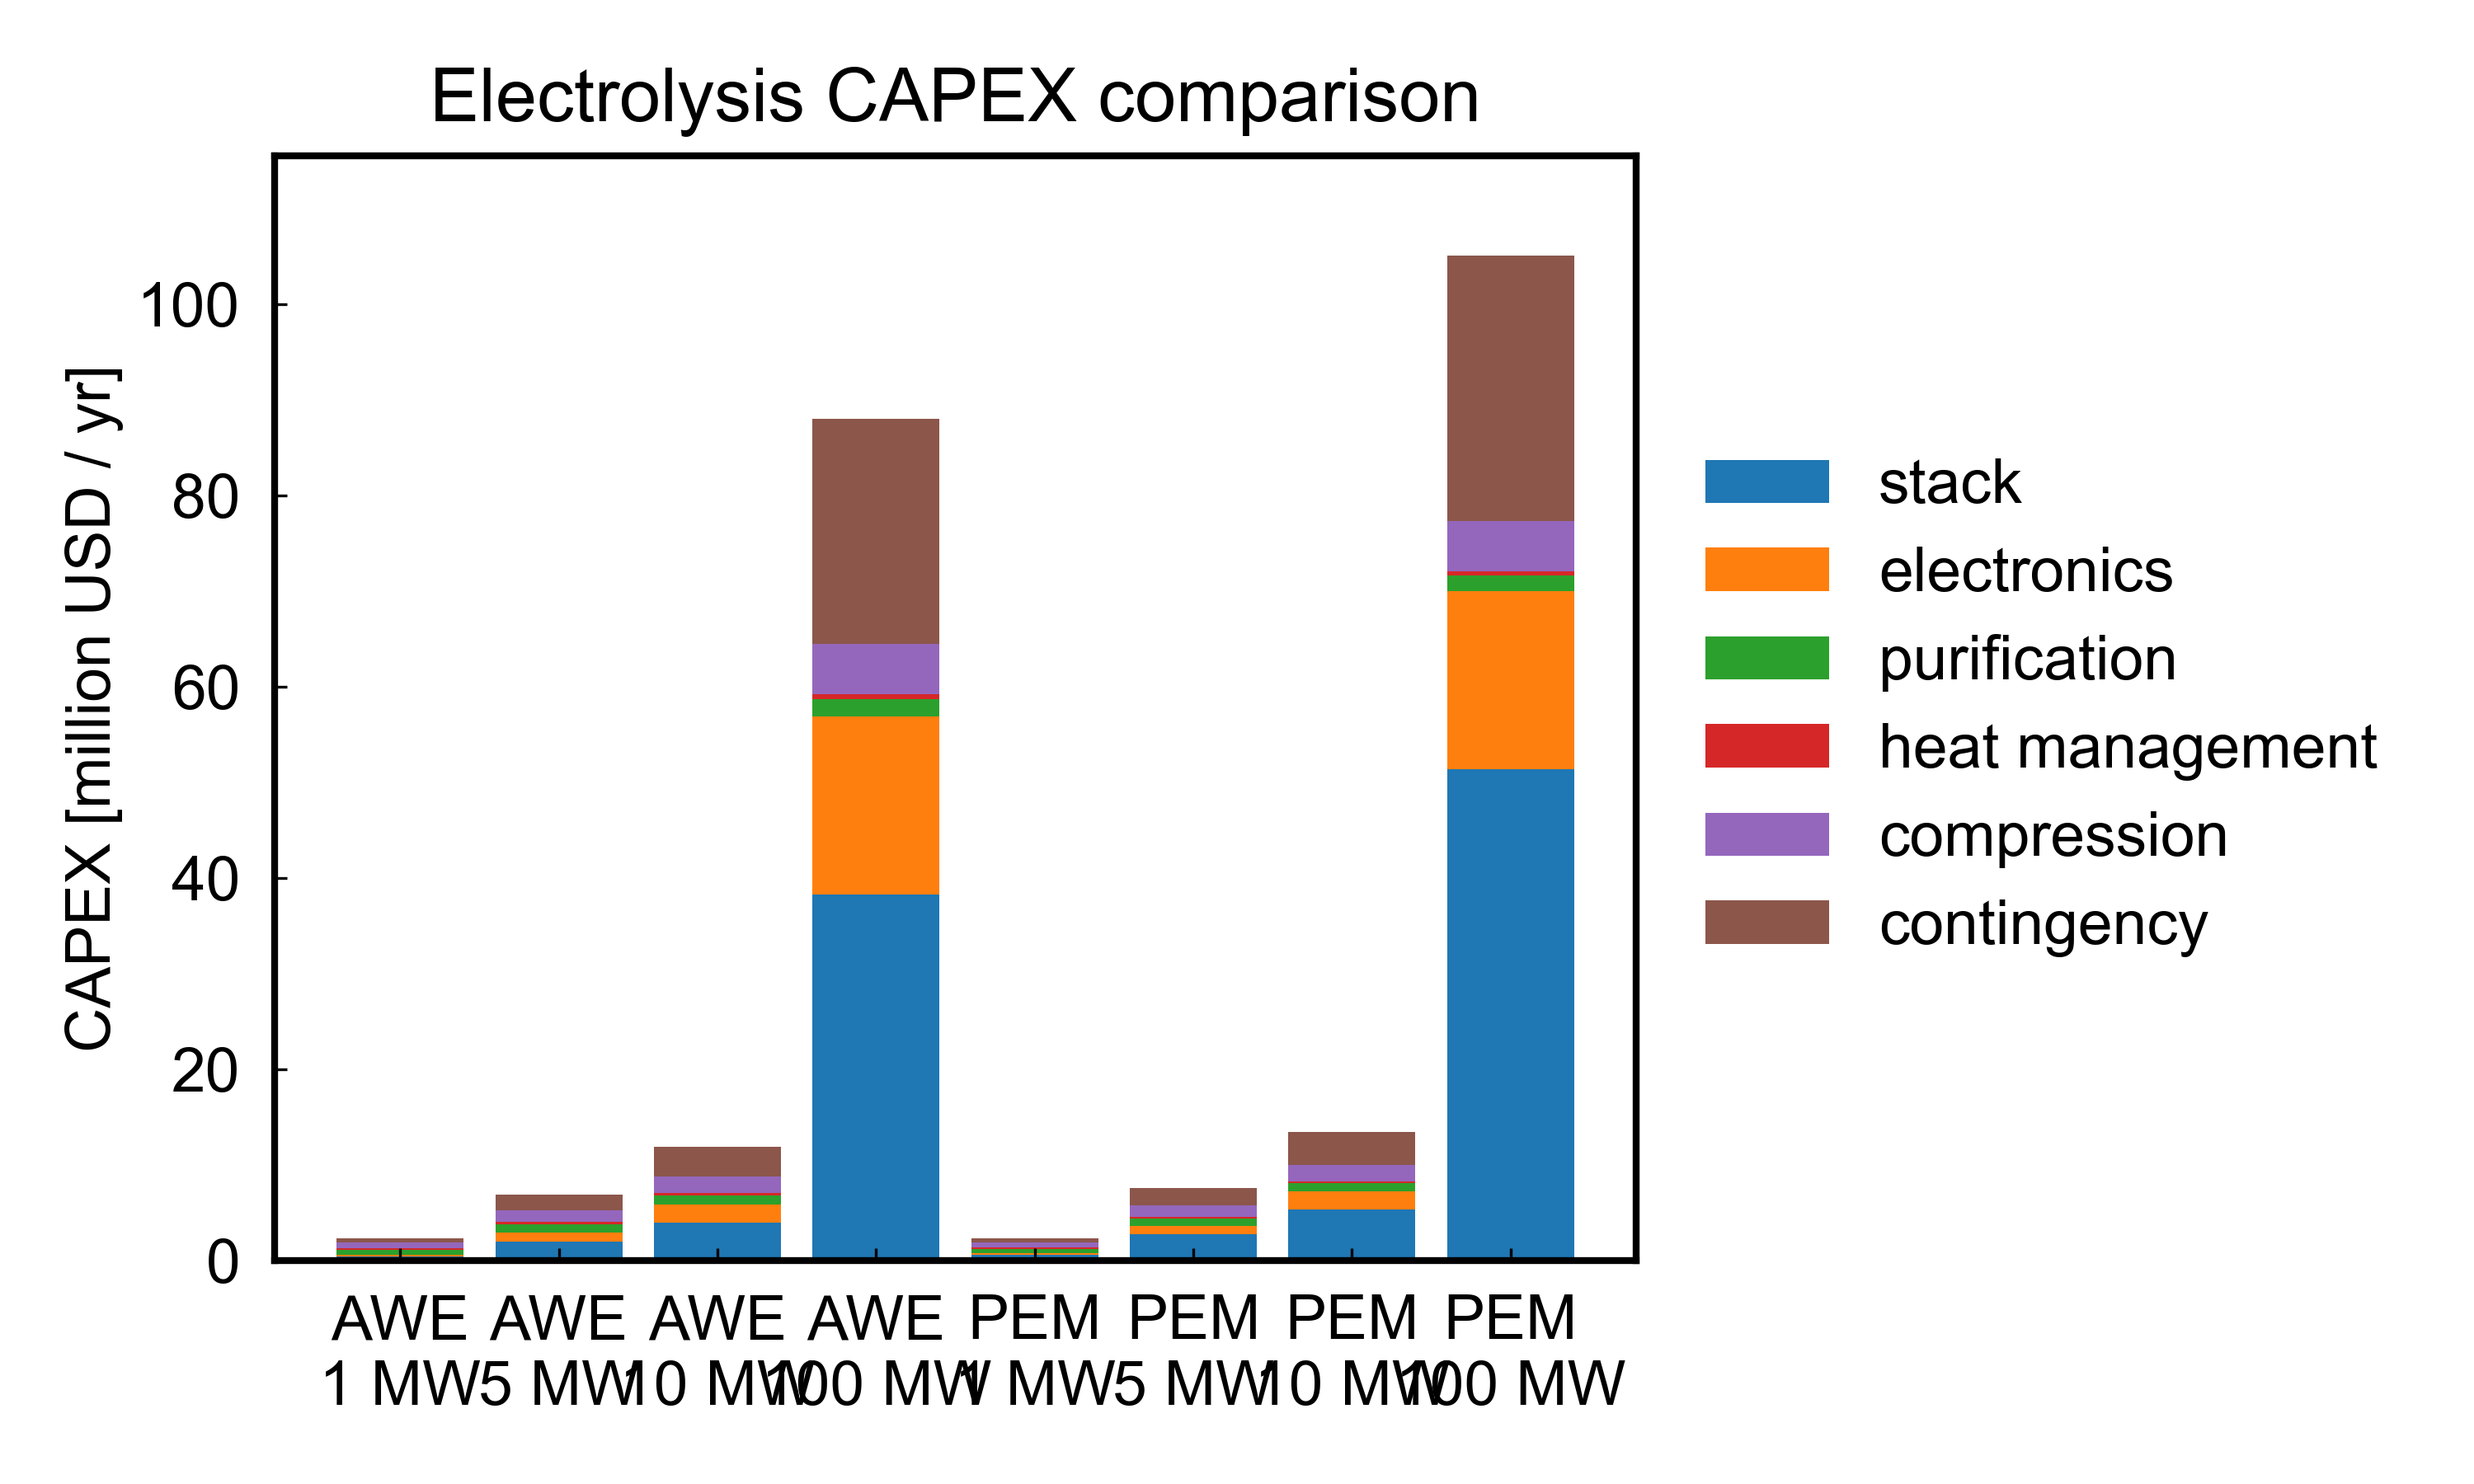
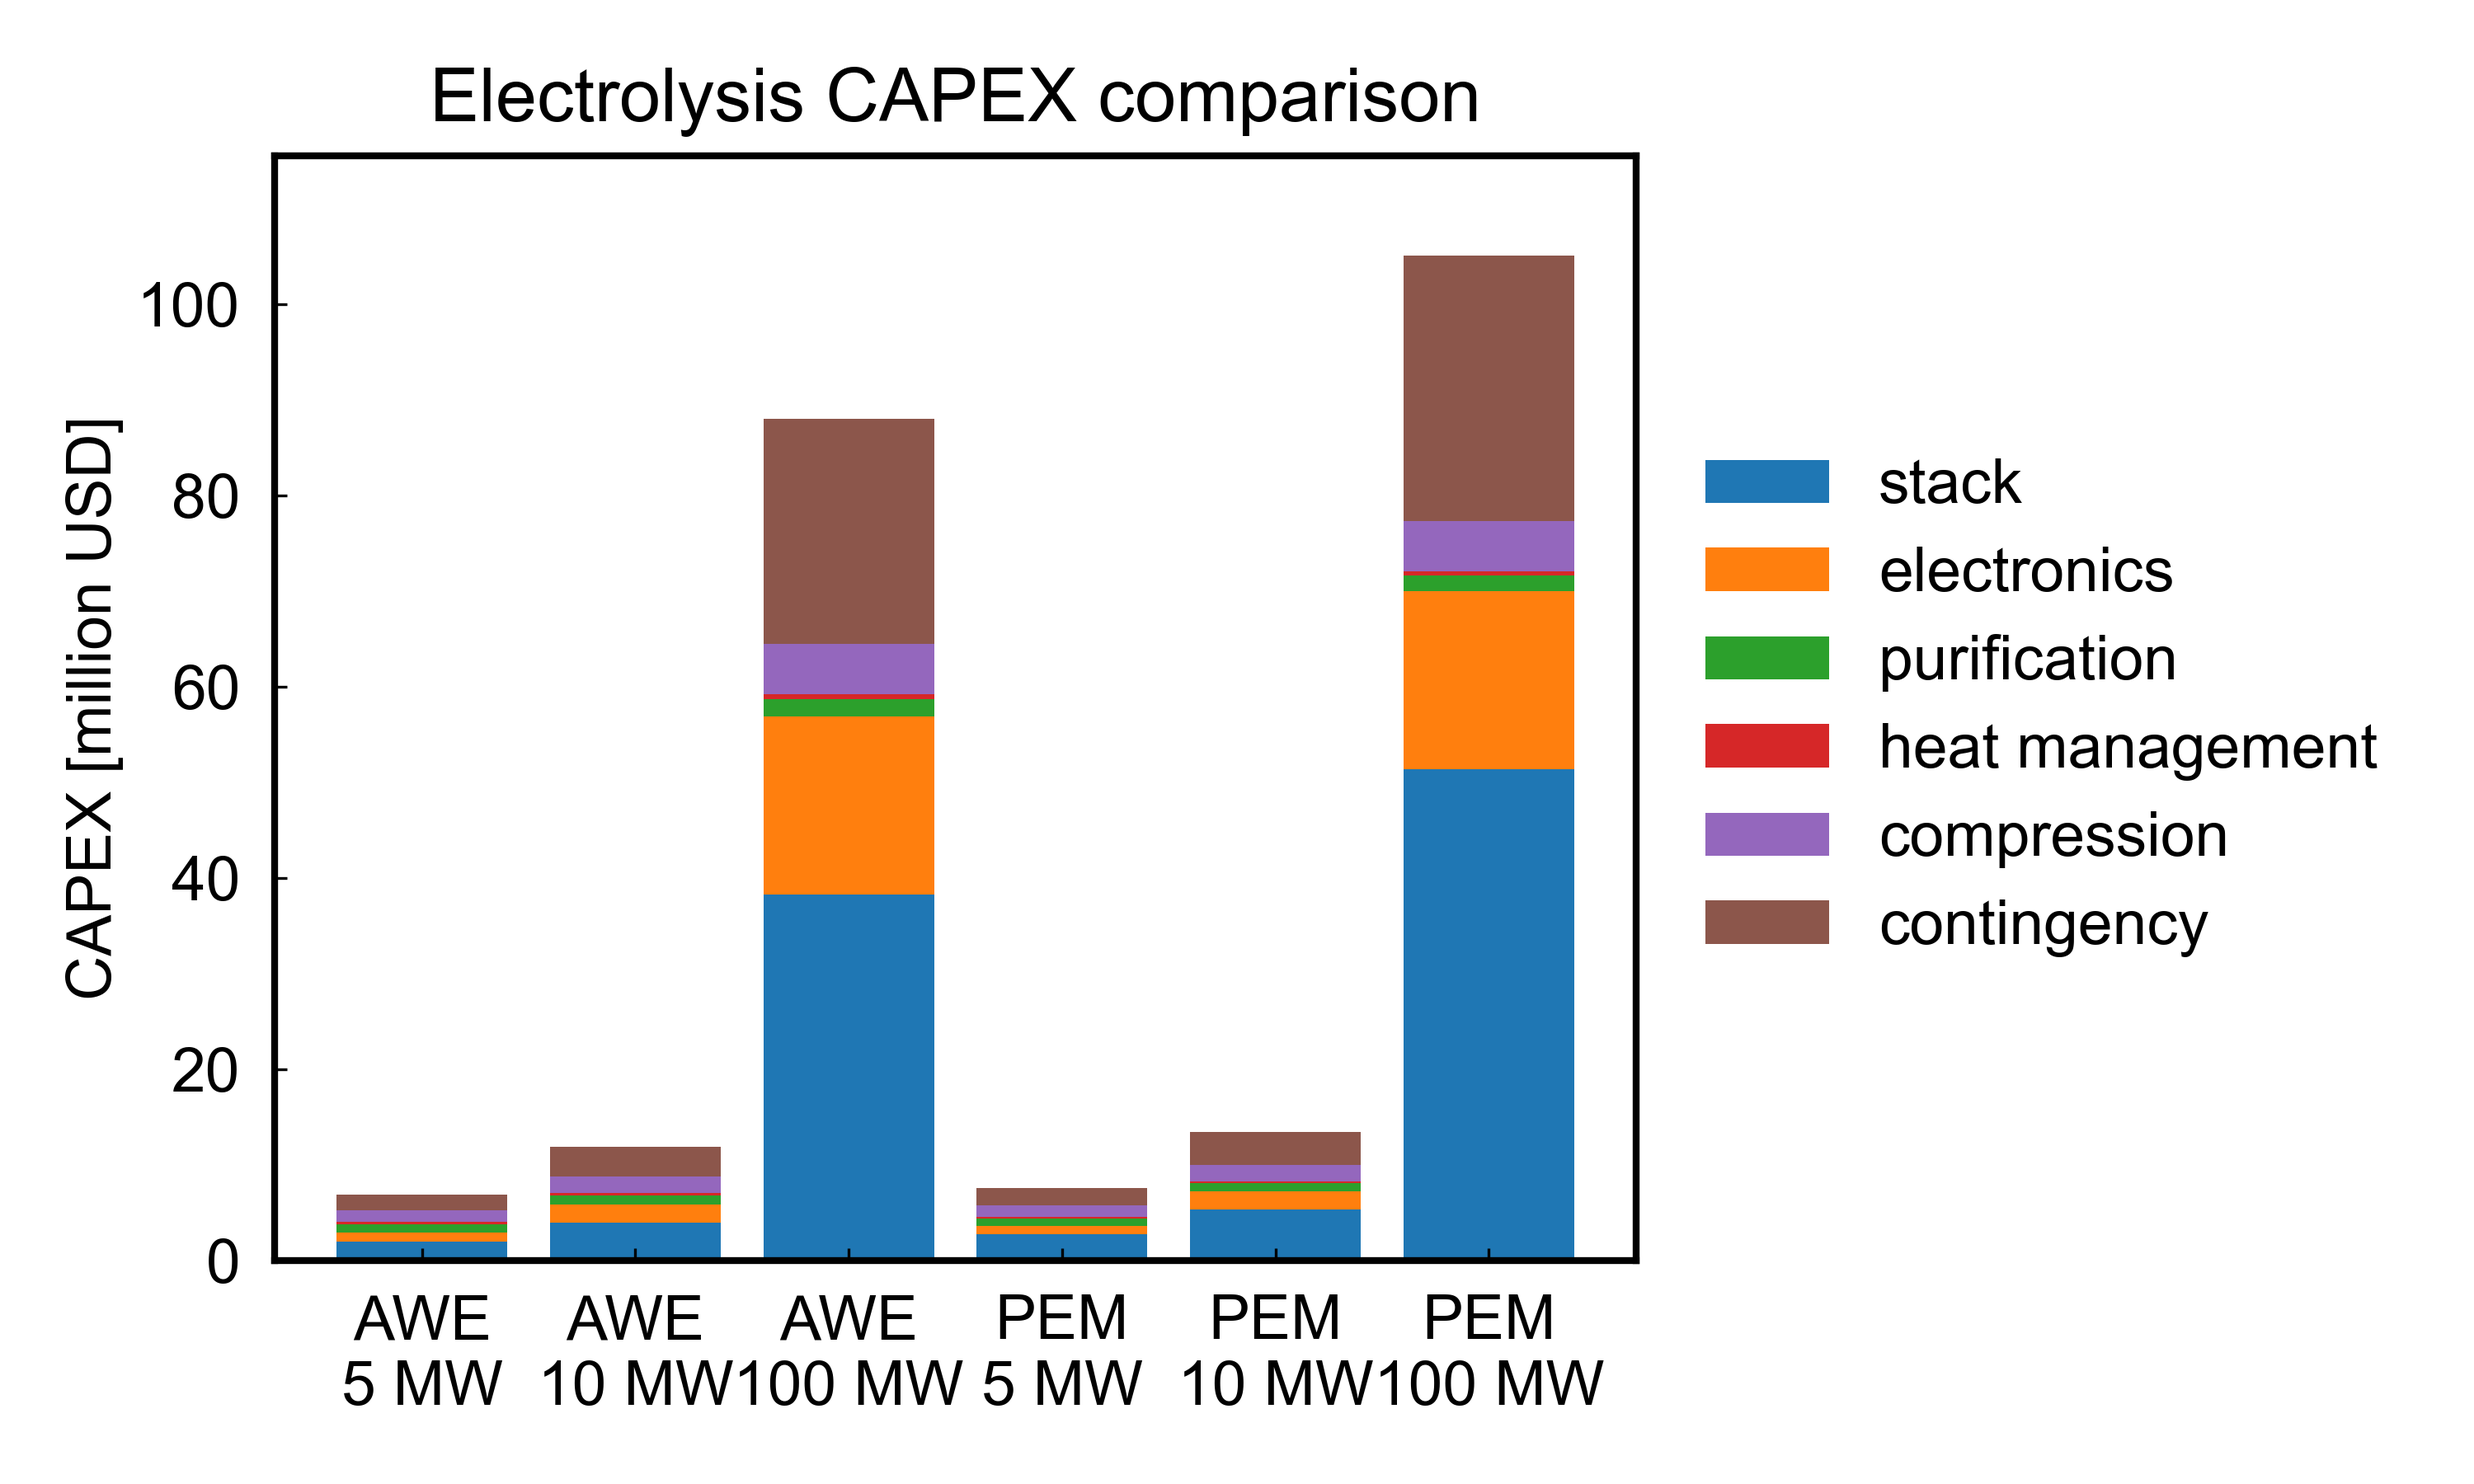
electrolysis calculation modified

Changed region(s): [[0.124, 0.1556, 0.651, 0.9644], [0.031, 0.2489, 0.062, 0.7156]]

diff --git a/main.py b/main.py
@@ -162,23 +162,50 @@ def biomass_gasifier():
     plot_line(pr, [capex], x_label="Hydrogen production rate [kt-H2 / yr]", y_label="CAPEX [millin USD]", title="Biomass gasification cost")
 
 def electrolysis_check():
-    pr = np.array([1, 5, 10, 100])
+    # pr = np.array([1, 5, 10, 100])
+    pr = np.array([5, 10, 100])
     awe_cap = [awe_capex(p) for p in pr]
     awe_op = [awe_opex(p) for p in pr]
     awe_annual_cost = awe_cost(pr)
+    lcoh_awe = LCOH_awe(pr)
+    cap_kw_awe = CAPEX_per_kW_awe(pr)
+    op_kw_awe = [sum(awe_opex(p)) * 1e6 / (p * 1e3) for p in pr]
 
     pem_cap = [pemwe_capex(p) for p in pr]
     pem_op = [pemwe_opex(p) for p in pr]
     pemwe_annual_cost = pemwe_cost(pr)
-    y_list = awe_cap + pem_cap
-    # y_list = awe_op + pem_op
-    # y_list = list(awe_annual_cost) + list(pemwe_annual_cost)
-    x_list = ["AWE\n1 MW", "AWE\n5 MW", "AWE\n10 MW", "AWE\n100 MW", "PEM\n1 MW", "PEM\n5 MW", "PEM\n10 MW", "PEM\n100 MW"]
-    y_label = "CAPEX [million USD / yr]"
-    title = "Electrolysis CAPEX comparison"
+    lcoh_pem = LCOH_pemwe(pr)
+    cap_kw_pem = CAPEX_per_kW_pemwe(pr)
+    op_kw_pem = [sum(pemwe_opex(p)) * 1e6 / (p * 1e3) for p in pr]
 
+    # x_list = ["AWE\n1 MW", "AWE\n5 MW", "AWE\n10 MW", "AWE\n100 MW", "PEM\n1 MW", "PEM\n5 MW", "PEM\n10 MW", "PEM\n100 MW"]
+    x_list = ["AWE\n5 MW", "AWE\n10 MW", "AWE\n100 MW", "PEM\n5 MW", "PEM\n10 MW", "PEM\n100 MW"]
+
+    y_list = awe_cap + pem_cap
+    y_label = "CAPEX [million USD]"
+    title = "Electrolysis CAPEX comparison"
     layer_label_list_capex = ["stack", "electronics", "purification", "heat management", "compression", "contingency"]
-    layer_label_list_opex = ["electricity", "steam", "cooling_water", "refgerant", "pump", "compression", "raw material water"]
     plot_stack_bar(y_list, layer_label_list=layer_label_list_capex, x_list=x_list, y_label=y_label, title=title)
+
+    y_list = list(cap_kw_awe) + list(cap_kw_pem)
+    y_label = "CAPEX [USD / kW]"
+    title = "Electrolysis CAPEX (per kW) comparison"
+    plot_bar(y_list, x_list=x_list, y_label=y_label, title=title)
+
+    y_list = awe_op + pem_op
+    y_label = "OPEX [million USD / yr]"
+    title = "Electrolysis OPEX comparison"
+    layer_label_list_opex = ["electricity", "steam", "cooling_water", "refgerant", "pump", "compression", "raw material water"]
+    plot_stack_bar(y_list, layer_label_list=layer_label_list_opex, x_list=x_list, y_label=y_label, title=title)
+
+    y_list = list(awe_annual_cost) + list(pemwe_annual_cost)
+    y_label = "Annual cost [million USD / yr]"
+    title = "Electrolysis annual cost comparison"
+    plot_bar(y_list, x_list=x_list, y_label=y_label, title=title)
+
+    y_list = list(lcoh_awe) + list(lcoh_pem)
+    y_label = "LCOH [USD / kg-H2]"
+    title = "Electrolysis LCOH comparison"
+    plot_bar(y_list, x_list=x_list, y_label=y_label, title=title)
 
 electrolysis_check()

diff --git a/myconfig/hydrogen_calculation.py b/myconfig/hydrogen_calculation.py
@@ -43,7 +43,7 @@ def pemwe_adv_capex(production_scale): # production_scale: [MW]
     return capex_list # [million USD] # [stack, electronics, heat management, compression, contingency]
 
 def electrolizer_opex(production_scale, opex_data, spec_data): # [MW]
-    pr = production_scale / spec_data.Energy_consumption.Value * plant_data.Plant_operation_time.Value # [kg-H2 / yr]
+    pr = production_scale * 1e3 / spec_data.Energy_consumption.Value * plant_data.Plant_operation_time.Value # [kg-H2 / yr]
     electricity_cost = pr * spec_data.Energy_consumption.Value * commodity_data.Electricity.Value * 1e-6 # [milion USD / yr]
     steam_cost = pr * opex_data.Steam.Value * commodity_data.Steam.Value * 1e-6 # [million USD / yr]
     cooling_cost = pr * opex_data.Cooling_water.Value * commodity_data.Cooling_water.Value * 1e-6 # [million USD / yr]
@@ -91,6 +91,36 @@ def pemwe_cost(production_scale, discount_rate=plant_data.Discount_rate.Value): 
     spec_data = pemwe_spec_data
     annual_cost = electrolysis_cost(capex_list, opex_list, spec_data, discount_rate)
     return annual_cost # [million USD / yr]
+
+# LCOH
+
+def LCOH_awe(production_scale): # production scale: [MW], annual cost : [million USD / yr]
+    production_rate = production_scale * 1e3 / awe_spec_data.Energy_consumption.Value * plant_data.Plant_operation_time.Value # [kg-H2 / yr]
+    cost = awe_cost(production_scale) * 1e6 # [USD / yr]
+    lcoh = cost / production_rate # [USD / kg-H2]
+    return lcoh
+
+def LCOH_pemwe(production_scale): # production scale: [MW], annual cost : [million USD / yr]
+    production_rate = production_scale * 1e3 / pemwe_spec_data.Energy_consumption.Value * plant_data.Plant_operation_time.Value # [kg-H2 / yr]
+    cost = pemwe_cost(production_scale) * 1e6 # [USD / yr]
+    lcoh = cost / production_rate # [USD / kg-H2]
+    return lcoh
+
+def CAPEX_per_kW_awe(production_scale): # [MW]
+    capex = sum(awe_capex(production_scale)) * 1e6 # [USD]
+    pr = production_scale * 1e3 # [kW]
+    return capex / pr # [USD / kW]
+
+def CAPEX_per_kW_pemwe(production_scale): # [MW]
+    capex = sum(pemwe_capex(production_scale)) * 1e6 # [USD]
+    pr = production_scale * 1e3 # [kW]
+    return capex / pr # [USD / kW]
+
+def OPEX_per_kW_pemwe(production_scale): # [MW]
+    capex = sum(pemwe_opex(production_scale)) * 1e6 # [USD]
+    pr = production_scale * 1e3 # [kW]
+    return capex / pr # [USD / kW]
+
 
 # infra cost
 

diff --git a/myconfig/__init__.py b/myconfig/__init__.py
@@ -16,8 +16,8 @@ from .process_steel import steel_capex_bau, steel_capex_dri_eaf, steel_capex_ccs
 process_list = ["steel_capex_bau", "steel_capex_dri_eaf", "steel_capex_ccs", "steel_opex_ccs", "steel_annual_ccs"]
 
 # hydrogen
-from .hydrogen_calculation import awe_capex, water_pump_capex, awe_opex, awe_cost, pemwe_cost, pemwe_capex, pemwe_opex
-hydrogen_list = ["awe_capex", "water_pump_capex", "awe_opex", "awe_cost", "pemwe_cost", "pemwe_capex", "pemwe_opex"]
+from .hydrogen_calculation import awe_capex, water_pump_capex, awe_opex, awe_cost, pemwe_cost, pemwe_capex, pemwe_opex, LCOH_awe, LCOH_pemwe, CAPEX_per_kW_awe, CAPEX_per_kW_pemwe
+hydrogen_list = ["awe_capex", "water_pump_capex", "awe_opex", "awe_cost", "pemwe_cost", "pemwe_capex", "pemwe_opex", "LCOH_pemwe", "LCOH_awe", "CAPEX_per_kW_pemwe", "CAPEX_per_kW_awe"]
 
 # ccs
 from .ccs_calculation import co2_capture_capex, co2_capture_opex, co2_capture_cost, ccs_cost_check, ccs_total_cost, co2_compression_capex, co2_pump_capex, co2_compression_opex, co2_compression_power, co2_pump_power, co2_pump_opex
